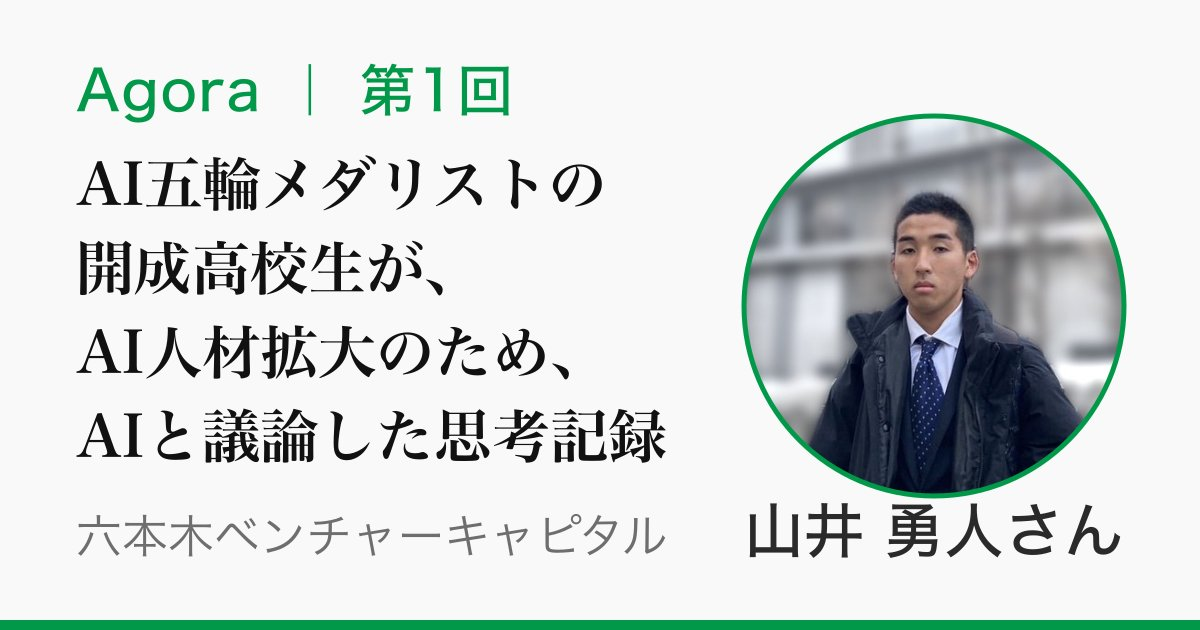
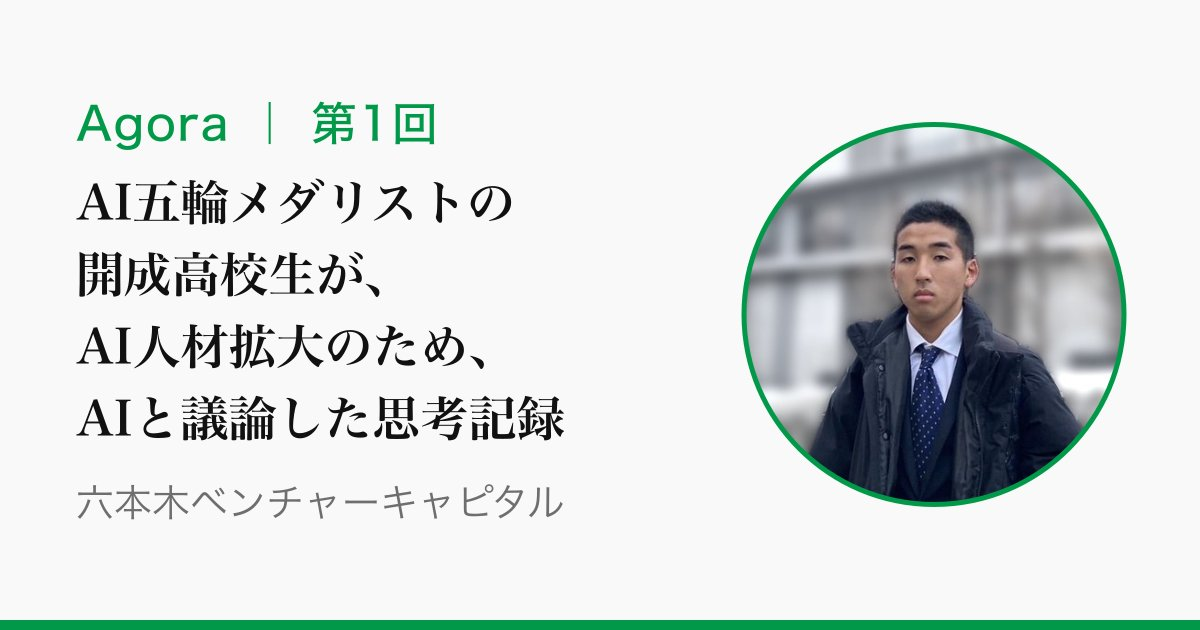
記事の共有カードの文字を小さくし、トップのカードのラベルを Agora に直した
og画像 ── 写真の下の「山井 勇人さん」を削除。六本木ベンチャーキャピタルをゲームのog画像と同じ38pxにし、ラベル（56→46）と見出し（58→48）は元の比率を保ったまま同じ0.826倍に縮めた。名前を消したぶん余白を測り直し 上101/下101/左76/右74。JPEG 86KB→70KB。トップのカードの緑ラベルが style.css の text-transform:uppercase で AGORA になっていたのを、カード側の text-transform:none で打ち消した（style.css は触っていない）。

diff --git a/layouts/index.html b/layouts/index.html
@@ -50,7 +50,7 @@
             <a href="{{ with $rec }}{{ .RelPermalink }}{{ else }}{{ "agora/ai-olympiad-record/" | relURL }}{{ end }}">
               <img class="article-item-img" src="{{ "img/agora/r1/thumb-r1-article.jpg" | relURL }}" alt="">
               <div class="article-item-body">
-                <div class="article-pillar">Agora ｜ 第1回</div>
+                <div class="article-pillar" style="text-transform:none">Agora ｜ 第1回</div>
                 <h3 style="margin:0.75rem 0">AI五輪メダリストの開成高校生が、AI人材拡大のため、AIと議論した思考記録</h3>
                 <span class="blog-arrow">記録を読む →</span>
               </div>
